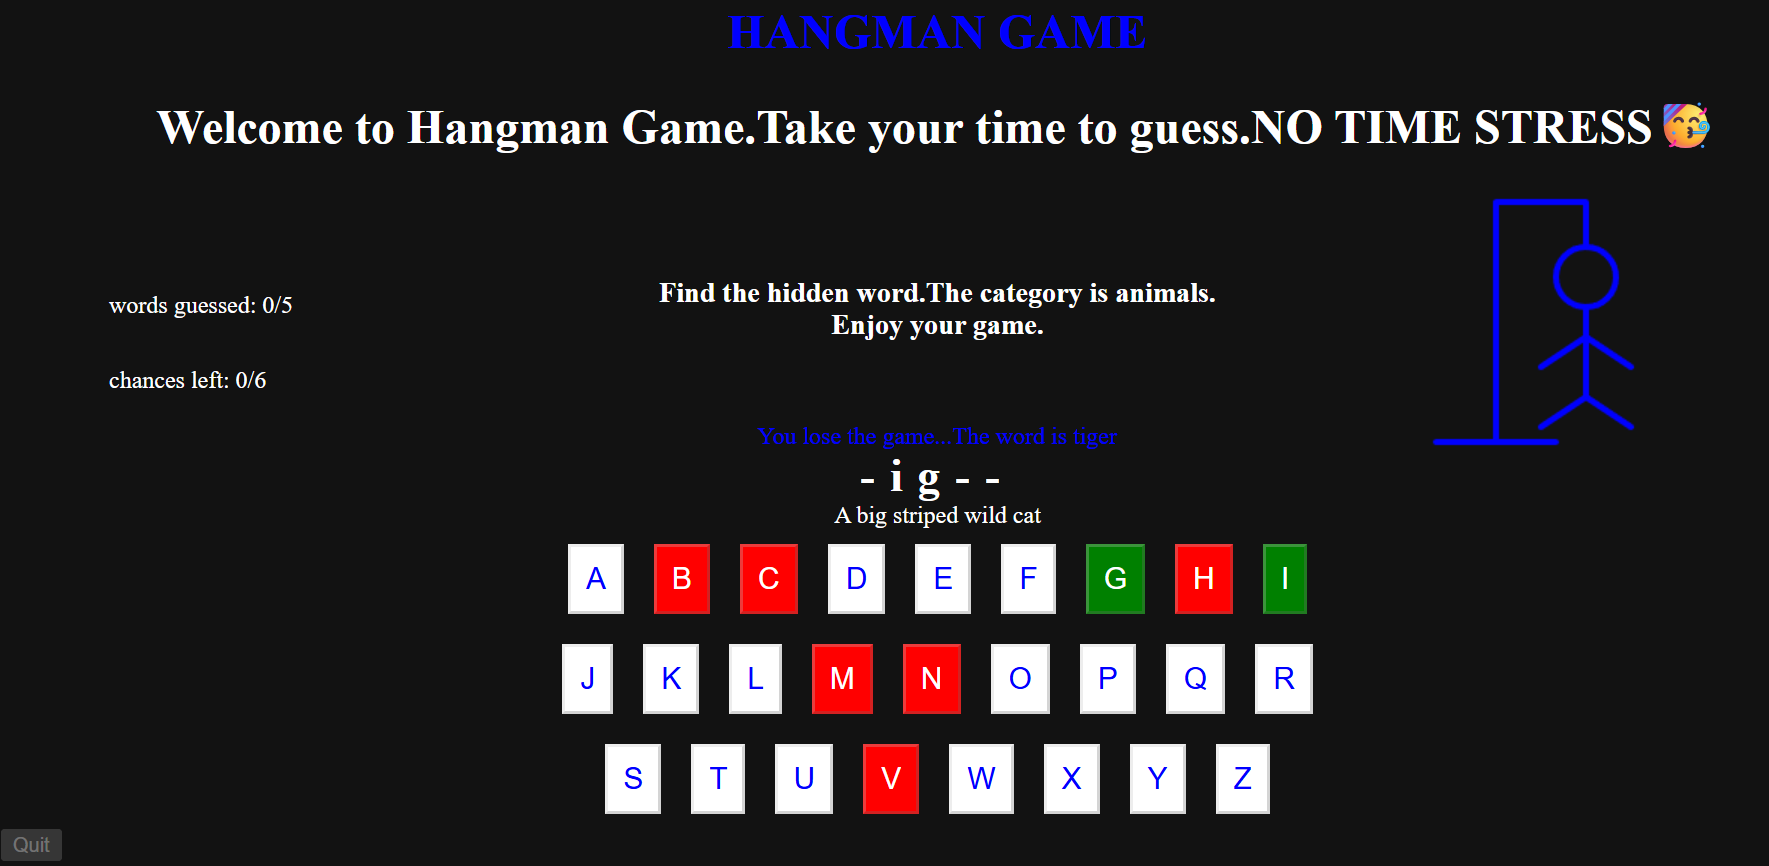
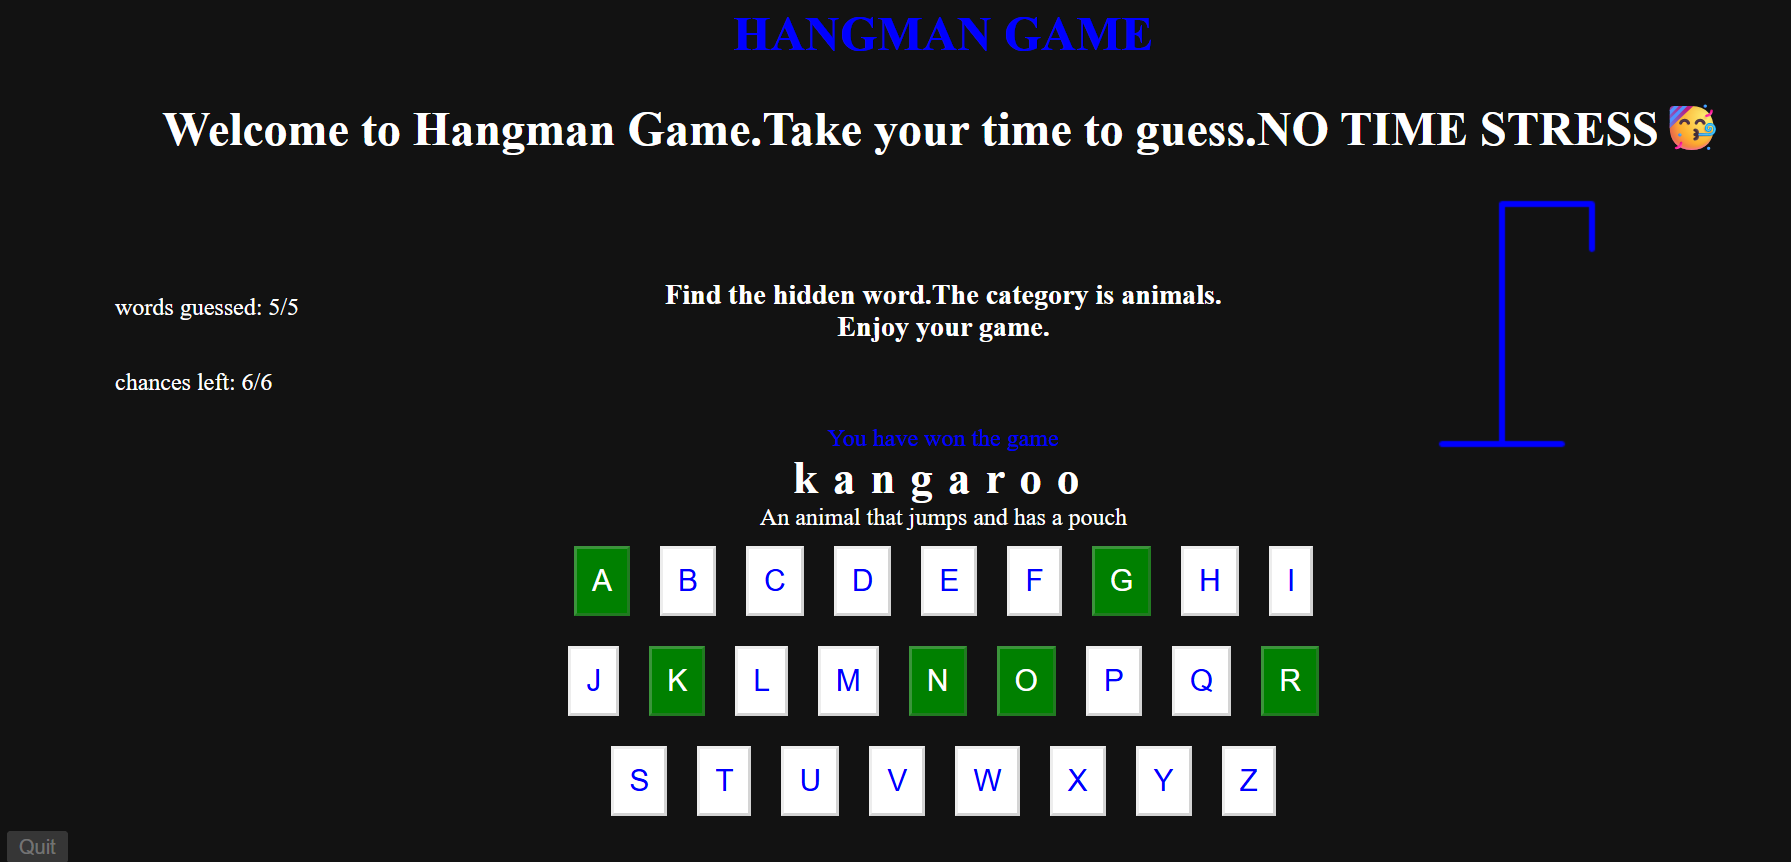
Added Screenshots
Updated README

diff --git a/index.html b/index.html
@@ -405,7 +405,7 @@ function selectCategory(){
 function showKeypad(){
 
   //Calling getKey function when user presses a keyboard key
-  document.addEventListener("keyup",getKey);
+ // document.addEventListener("keyup",getKey);
   
   //Get the container where alphabet buttons will be added
   alphabets=document.getElementById("alphabets");

diff --git a/README.md b/README.md
@@ -164,19 +164,24 @@ Although the project exceeded the planned time budget, the extra development tim
 
 10. On guessing the hidden word correctly , the next word is automatically displayed and the "words guessed " counter on the screen is updated.
 
-![Game Progress Screen](screenshots/image-screen5.png)
+![Game Progress Screen](screenshots/image-screen5a.png)
+
+![Game Progress Screen](screenshots/image-screen5b.png)
 
 
 11. The winning criteria is to guess five words correctly consecutively.
 
+![Game Progress Screen](screenshots/image-screen6.png)
+
+
 12. The game ends if all six chances are lost before guessing the hidden word and the next word is not displayed.
 
-![Game Progress Screen](screenshots/image-screen6.png)
+![Game Progress Screen](screenshots/image-screen7.png)
 
 
 13. In Time Based mode, the game also ends if the two minute countdown timer reaches zero.This means the user must guess all five words correctly consecutively witin two minutes.
 
-![Game Progress Screen](screenshots/image-screen7.png)
+![Game Progress Screen](screenshots/image-screen8.png)
 
 
 13. Winning or losing messages are displayed on the screen.
@@ -184,6 +189,12 @@ Although the project exceeded the planned time budget, the extra development tim
 14. `Restart` and `Exit` buttons are dispayed after the game ends.
 
 15. Use the `Quit` button to leave the game at any time.
+
+![Game Progress Screen](screenshots/image-alert2.png)
+
+A thankyou message is displayed on clicking the `Quit` button.
+
+![Game Progress Screen](screenshots/image-screen9.png)
 
 16. The refresh feature restores the game progress after a page refresh using local storage.
        
